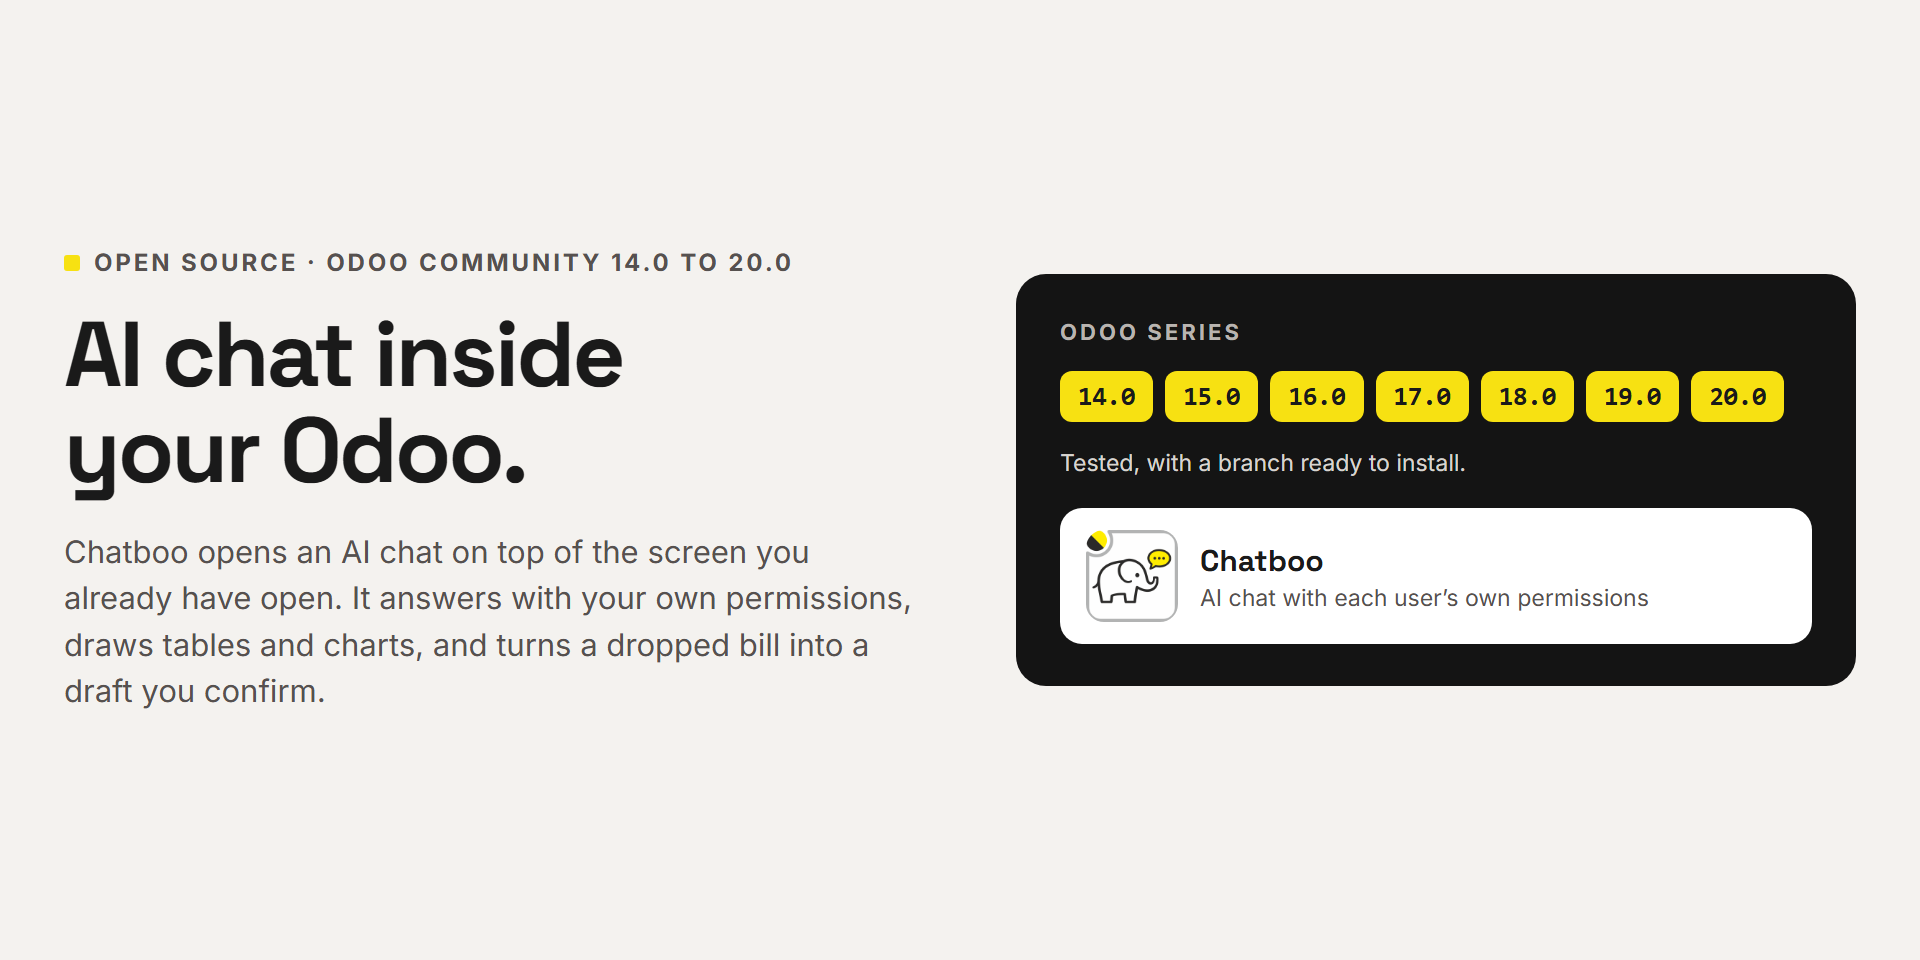
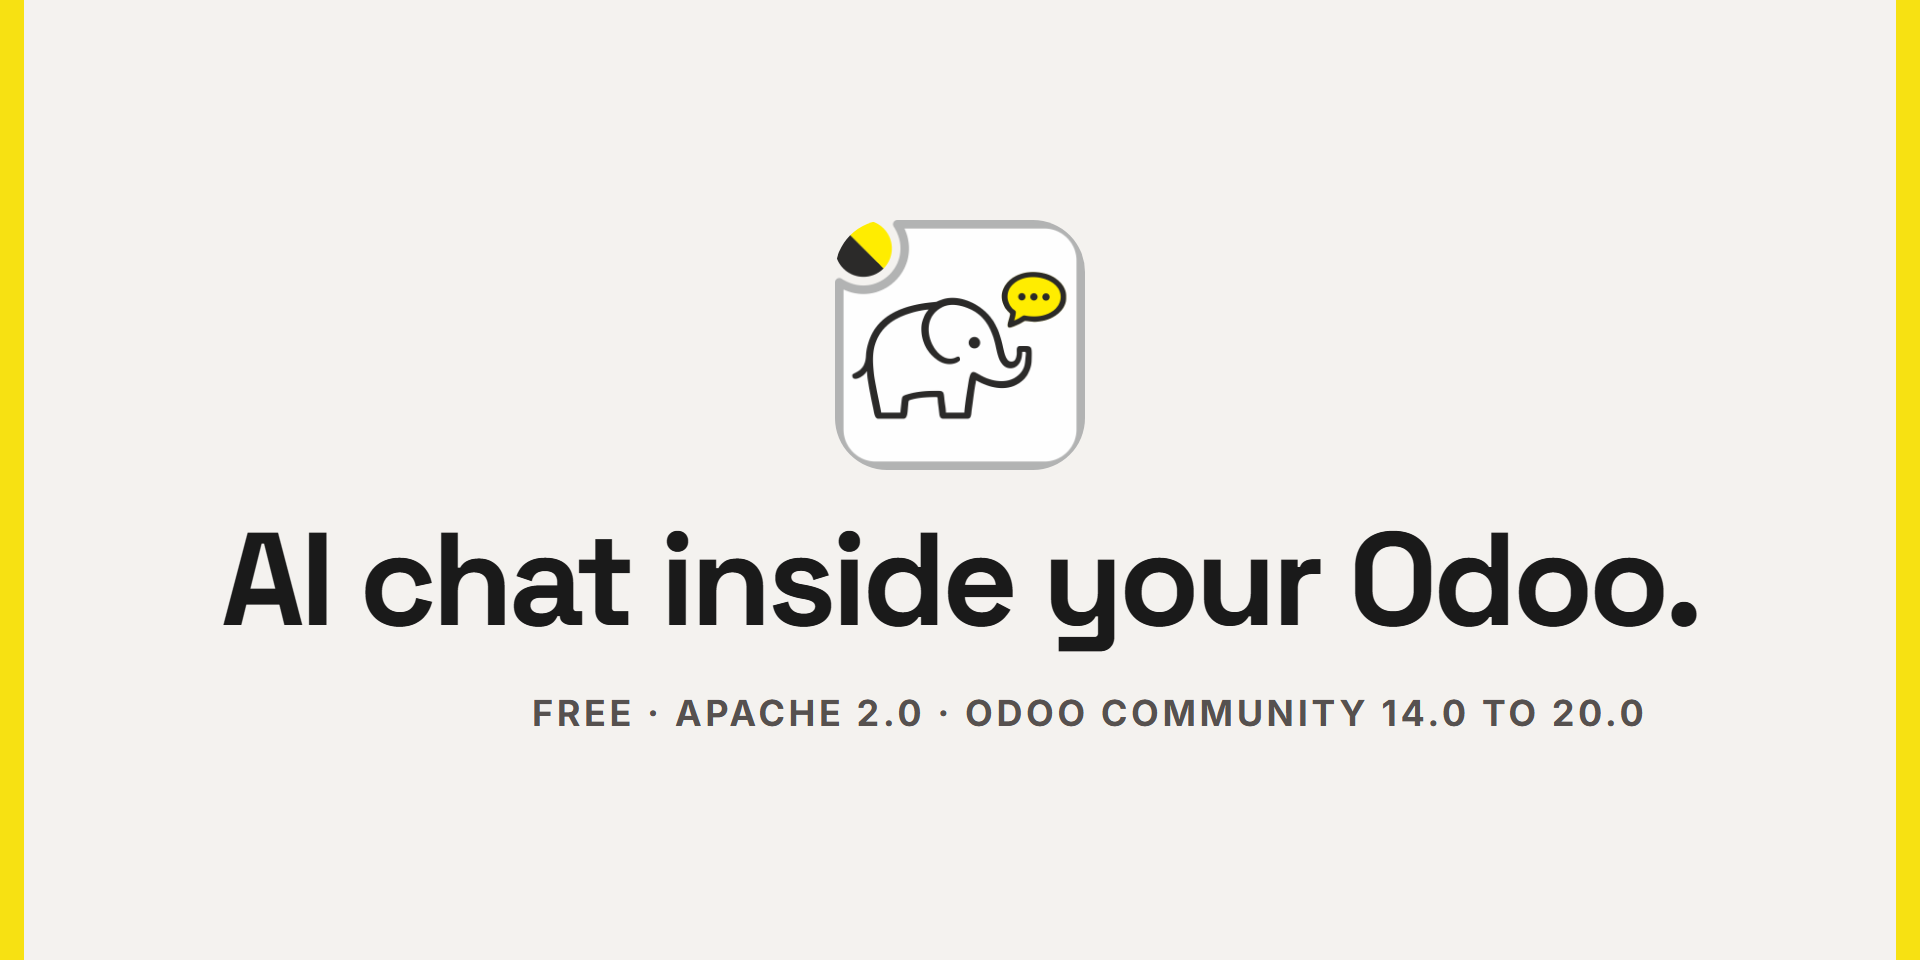
pns_ai_chatboo owl1 2.1.591 · owl2 2.1.591 · owl3 2.1.591
Store listing only; the module code is the one of 2.1.590.

- New Odoo Apps cover: icon, headline and one line of facts (free, Apache 2.0, Odoo Community 14.0 to 20.0). The previous cover carried a paragraph and the series chips, unreadable at the size of the store grid.

Changed region(s): [[0.0, 0.0, 1.0, 1.0]]

diff --git a/stacks/owl1/pns_ai_chatboo/__manifest__.py b/stacks/owl1/pns_ai_chatboo/__manifest__.py
@@ -4,7 +4,7 @@
 # Odoo reads this file with ast.literal_eval — no module docstring before `{`.
 {
     'name': 'Chatboo — AI Chat Assistant',
-    'version': '2.1.590',
+    'version': '2.1.591',
     'category': 'Productivity',
     'summary': 'Open-source AI chatbot for Odoo Community 14 to 20: ask about your records in plain words with OpenAI, Claude or Ollama, and get tables, charts, PDF or Excel. Each user sees only what they may see.',
     'description': """

diff --git a/stacks/owl2/pns_ai_chatboo/__manifest__.py b/stacks/owl2/pns_ai_chatboo/__manifest__.py
@@ -4,7 +4,7 @@
 # Odoo reads this file with ast.literal_eval — no module docstring before `{`.
 {
     'name': 'Chatboo — AI Chat Assistant',
-    'version': '2.1.590',
+    'version': '2.1.591',
     'category': 'Productivity',
     'summary': 'Open-source AI chatbot for Odoo Community 14 to 20: ask about your records in plain words with OpenAI, Claude or Ollama, and get tables, charts, PDF or Excel. Each user sees only what they may see.',
     'description': """

diff --git a/stacks/owl3/pns_ai_chatboo/__manifest__.py b/stacks/owl3/pns_ai_chatboo/__manifest__.py
@@ -4,7 +4,7 @@
 # Odoo reads this file with ast.literal_eval — no module docstring before `{`.
 {
     'name': 'Chatboo — AI Chat Assistant',
-    'version': '2.1.590',
+    'version': '2.1.591',
     'category': 'Productivity',
     'summary': 'Open-source AI chatbot for Odoo Community 14 to 20: ask about your records in plain words with OpenAI, Claude or Ollama, and get tables, charts, PDF or Excel. Each user sees only what they may see.',
     'description': """

diff --git a/stacks/owl1/pns_ai_chatboo/__manifest_o15__.py b/stacks/owl1/pns_ai_chatboo/__manifest_o15__.py
@@ -7,7 +7,7 @@
 # template to inherit. The rest matches __manifest__.py.
 {
     'name': 'Chatboo — AI Chat Assistant',
-    'version': '2.1.590',
+    'version': '2.1.591',
     'category': 'Productivity',
     'summary': 'Open-source AI chatbot for Odoo Community 14 to 20: ask about your records in plain words with OpenAI, Claude or Ollama, and get tables, charts, PDF or Excel. Each user sees only what they may see.',
     'description': """

diff --git a/CHANGELOG.md b/CHANGELOG.md
@@ -2,6 +2,12 @@
 
 What changes for people who use this module, one section per published version, newest first. The heading is the git tag.
 
+## owl1-2.1.591_owl2-2.1.591_owl3-2.1.591 (2026-11-10)
+
+Store listing only; the module code is the one of 2.1.590.
+
+- New Odoo Apps cover: icon, headline and one line of facts (free, Apache 2.0, Odoo Community 14.0 to 20.0). The previous cover carried a paragraph and the series chips, unreadable at the size of the store grid.
+
 ## owl1-2.1.590_owl2-2.1.590_owl3-2.1.590 (2026-11-10)
 
 - More ways to ask for a page. Besides "page", "canvas" or "in a tab", a page now opens when you ask for a professional, executive or visual report, a panel or control panel, a presentation, an infographic or a visual summary (English and Spanish). The word "dashboard" is left to the skills that already answer to it.
